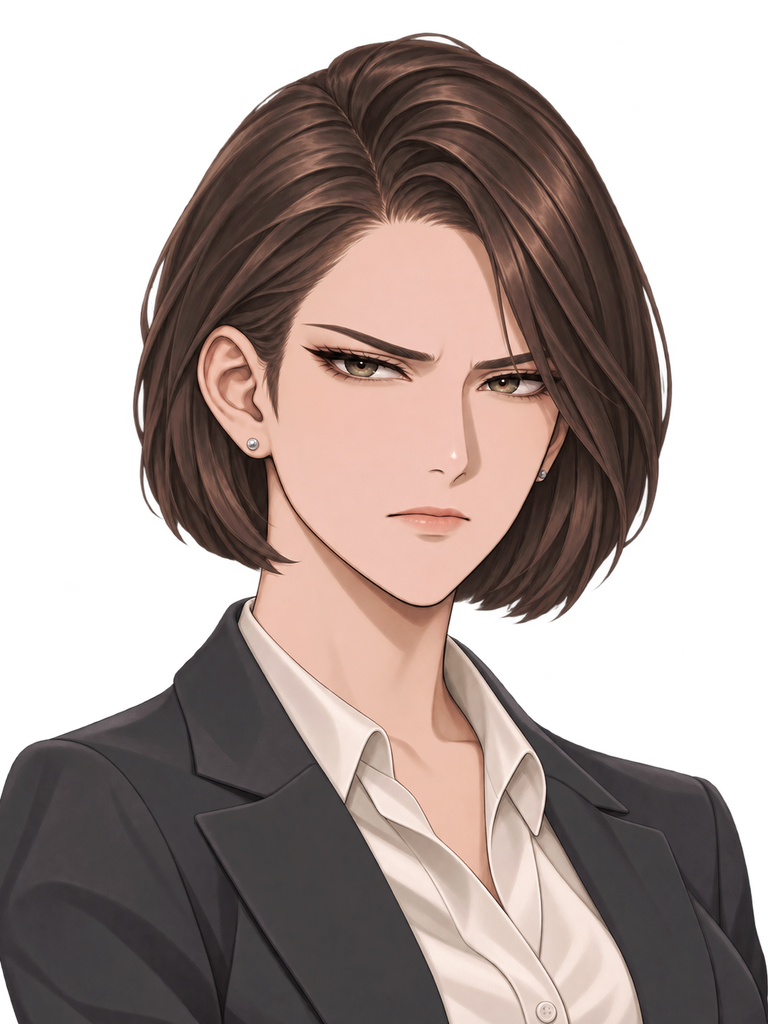
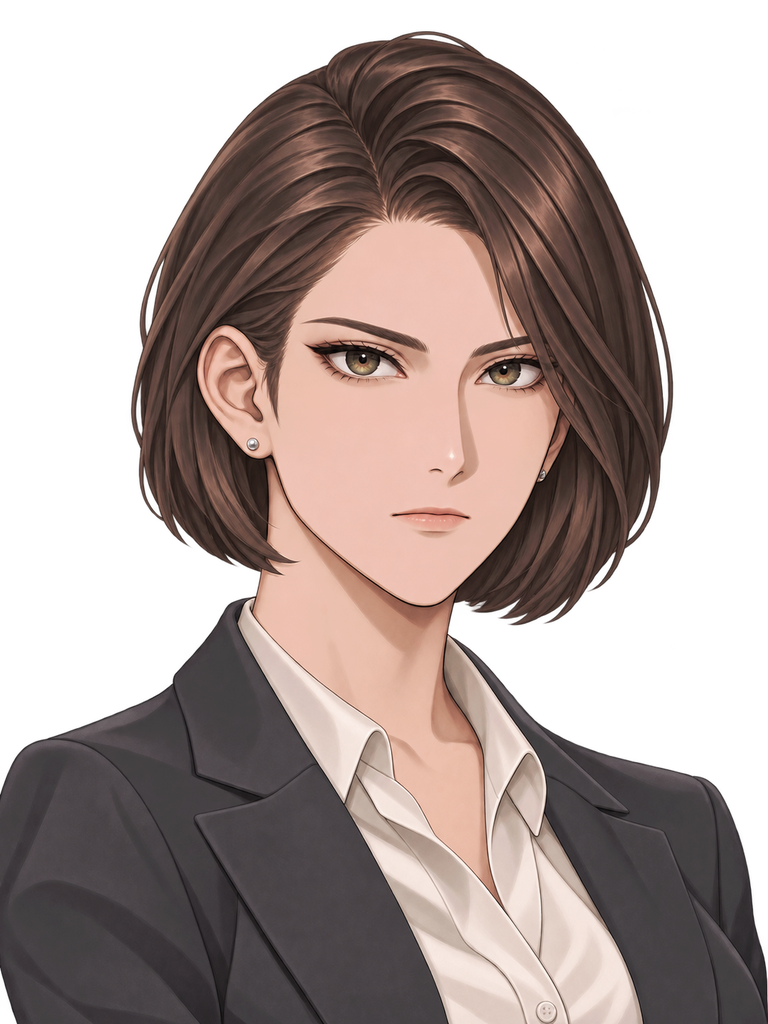
顔アイコンを人物ごとに切り抜き、修正版 13 枚を差し替え（v0.28.2）
Claude-Session: https://claude.ai/code/session_01GPUK2x8bN56A79JNjVJ4b6

diff --git a/src/ui/art.ts b/src/ui/art.ts
@@ -11,9 +11,10 @@ import { h } from './dom';
 const cache = new Map<string, string>();
 
 /** 立ち絵の描き方（data/portraits.json）。bust は胸から上の新しい絵 */
-interface PortraitStyle { style?: 'bust'; normal?: string }
+interface FaceBox { x: number; y: number; size: number; w: number; h: number }
+interface PortraitStyle { style?: 'bust'; normal?: string; face?: FaceBox }
 const STYLES = (portraitsJson as unknown as { characters: Record<string, PortraitStyle> }).characters;
-const styleOf = (id: string): PortraitStyle | undefined => STYLES[id];
+const styleOf = (id: string): PortraitStyle | undefined => STYLES[charFolder(id === 'host' ? 'host_observer' : id, heroGender)];
 /** 胸から上の新しい絵の人か */
 export const isBustArt = (id: string): boolean => styleOf(id)?.style === 'bust';
 let heroGender: 'm' | 'f' = 'm';
@@ -35,7 +36,7 @@ export function faceUrl(id: string): string {
   const key = `face:${folder}`;
   let url = cache.get(key);
   if (!url) {
-    // 新しい絵の人は、旧デザインの face.png を使わず、立ち絵の上側を丸く切り取って見せる（CSS の .face.face-bust）
+    // 新しい絵の人は、旧デザインの face.png を使わず、立ち絵を表示に使い、portraits.json の face の箱で顔だけを丸く拡大して見せる（faceCropCss）
     if (isBustArt(id)) url = portraitUrl(id, 'normal');
     url ??= assetUrl(`characters/${folder}/face`) ?? (() => {
       const { pal, gender } = palette(id);
@@ -63,9 +64,17 @@ export function portraitUrl(id: string, expr = 'normal'): string {
   return url;
 }
 
+/** 元の絵の中の正方形（中心 x, y、一辺 size）を、枠いっぱいに出す背景の指定 */
+export function faceCropCss(b: FaceBox): string {
+  const pct = (c: number, full: number) => (full === b.size ? 50 : ((c - b.size / 2) / (full - b.size)) * 100);
+  const r = (n: number) => Math.round(n * 100) / 100;
+  return `background-size:${r((b.w / b.size) * 100)}% auto;background-position:${r(pct(b.x, b.w))}% ${r(pct(b.y, b.h))}%`;
+}
+
 export function face(id: string, cls = ''): HTMLElement {
-  // 新しい絵の人は、立ち絵の頭のあたりを丸い枠に拡大して見せる（画像は加工しない）
-  if (isBustArt(id)) return h('span', { class: `face face-bust ${cls}`, style: `background-image:url("${faceUrl(id)}")`, role: 'img' });
+  // 切り抜きの決まっている人は、顔の部分を丸い枠いっぱいに拡大して見せる（画像は加工しない。枠の大きさに関係なく同じ切り抜き）
+  const box = styleOf(id)?.face;
+  if (box) return h('span', { class: `face face-crop ${cls}`, style: `background-image:url("${faceUrl(id)}");${faceCropCss(box)}`, role: 'img' });
   return h('img', { class: `face ${cls}`, src: faceUrl(id), alt: '', draggable: false });
 }
 

diff --git a/src/style.css b/src/style.css
@@ -1855,8 +1855,8 @@ html[data-ui-assets~="v11/bg/match_sub"] .match.venue-sub { background: linear-g
 
 /* 胸から上の新しい立ち絵（data/portraits.json の bust）。絞らずに絵全体を出し、下端をそろえる。どの表情も同じ寸法・同じ位置 */
 .bust.bust-art { background-size: contain !important; background-position: 50% 100% !important; }
-/* 顔アイコン：立ち絵の上側（頭から肩）を丸く切り取って見せる。画像は加工しない */
-.face.face-bust { display: inline-block; flex: none; background-repeat: no-repeat; background-size: 175% auto; background-position: 50% 8%; }
+/* 顔アイコン：人物ごとの切り抜き（data/portraits.json の face）。大きさと位置は art.ts の faceCropCss が書く */
+.face.face-crop { display: inline-block; flex: none; background-repeat: no-repeat; }
 
 /* ---- 起動時のメーカーロゴ（src/ui/splash.ts） ---- */
 .splash-screen { background: #000; display: flex; align-items: center; justify-content: center; z-index: 900; cursor: pointer; user-select: none; -webkit-user-select: none; }

diff --git a/src/main.ts b/src/main.ts
@@ -143,7 +143,7 @@ document.addEventListener('visibilitychange', () => {
     toast(t('update.available'), 'info', 6000);
   });
 });
-if (import.meta.env.VITE_CHANNEL !== 'product') (window as unknown as { __fc?: unknown }).__fc = { G, Input, Sound, sim: { placeIn, placeHome, setPathTo, setRouteTo, gatherAt, seatActor, assignCell, standAll, furnitureOf }, rooms: ROOMS, art: { bust, setBust, face } };
+if (import.meta.env.VITE_CHANNEL !== 'product') (window as unknown as { __fc?: unknown }).__fc = { G, Input, Sound, sim: { placeIn, placeHome, setPathTo, setRouteTo, gatherAt, seatActor, assignCell, standAll, furnitureOf }, rooms: ROOMS, art: { bust, setBust, face, setHeroGender } };
 void boot();
 
 if (!isNative && 'serviceWorker' in navigator) registerSW({ immediate: true });

diff --git a/docs/npc_rename.md b/docs/npc_rename.md
@@ -54,7 +54,9 @@ npc_02_kanzaki レオン／npc_03_kurose ヴィクトリア／npc_04_mido リチ
 
 - 通常絵：同梱の通常絵参照原本（`references/<内部ID>_normal_reference.png`、768×1024 透過）をそのまま `portrait_normal.png` に。レオン・ヨウコ・ヴィクターは修正版 v3、ほか 7 人は最初のリデザインセット。
 - 表情 7 種×11 人＝77 枚（smile、anger、sad、surprise、think、smirk、wary）は同じ名前で置き換え。納品の README と検査表は `docs/assets/characters/redesign_20261128/`。
-- マイク（npc_06_kiryu）の通常絵は白背景の JPEG（1086×1448）しか無いので、透過 PNG が届くまで笑顔を通常として使う（`src/data/portraits.json` の `normal`）。旧デザインの `portrait_normal.png` は残っているが使わない。
+- マイク（npc_06_kiryu）の通常絵は、修正版（2026-11-28、透過 PNG）で置き換え、笑顔での代用は外した。
+- 修正版 13 枚（2026-11-28）：警戒 4 枚（レオン、ヴィクトリア、リチャード、フェリックス）、クロエ 7 表情（顔の周り以外は通常絵と同じ画素）、レオンの驚き、マイクの通常。納品の検査表は ZIP の corrections.csv。
+- 丸い顔アイコン：`portraits.json` の `face`（元の絵の中の中心と一辺）で人物ごとに切り抜く。主人公男女は face.png に対して。確認は `sh scripts/with-preview.sh node scripts/check-faces.cjs [保存先]`。
 - 描き方は `src/data/portraits.json`：`bust` の人は胸から上の絵なので切り抜かずに絵全体を枠の下端に合わせ、顔アイコンは旧 `face.png` を使わず立ち絵の頭のあたりを拡大して丸く見せる（画像は加工しない）。
 - 確認：`sh scripts/with-preview.sh node scripts/check-portraits.cjs [写真の保存先]`（8 表情で枠・絵の位置と大きさが同じ、切り替え前に全表情読み込み済み、顔アイコン）。
 - 歩行（walk）・待機（stand）・着席（sit）の絵は旧デザインのまま（本人の方針：通常絵の確定後に展開）。

diff --git a/docs/status.md b/docs/status.md
@@ -1,11 +1,13 @@
 # FALSE CROWN 開発状況
 
-最終更新：2026-11-28　／　版：0.28.1（開発版）
+最終更新：2026-11-28　／　版：0.28.2（開発版）
 
 - 試遊 URL（開発版・全日程無料解放）: https://shunyamita0804-source.github.io/FALSE-CROWN/
 - 「完成」は、実際に遊べて検証済みのものだけを指します。未実装のものは完成扱いにしません。
 
 ## 0-0. いまの段階（v11：競技の全面改訂）
+
+v0.28.2：丸い顔アイコンを人物ごとに切り抜き（`src/data/portraits.json` の `face`。11 人と主人公男女、目・鼻・口が枠に収まり顔の大きさをそろえた。確認は `scripts/check-faces.cjs`）。修正版 13 枚（警戒 4、クロエ 7、レオンの驚き、マイクの透過通常絵）を差し替え、マイクの笑顔での代用を解除。
 
 v0.28.1：起動時、タイトルの前にメーカーロゴ「スリーライス」を約 2.5 秒表示（タップ・キーで飛ばせる。タイトルへ戻った時は出さない）。ロゴは本人の別作品から流用（CREDITS.md）。タイトル曲はロゴの消え始めから入る。確認の自動操作では出さない（`?splash` で出す、`?nosplash` で飛ばす）。
 
